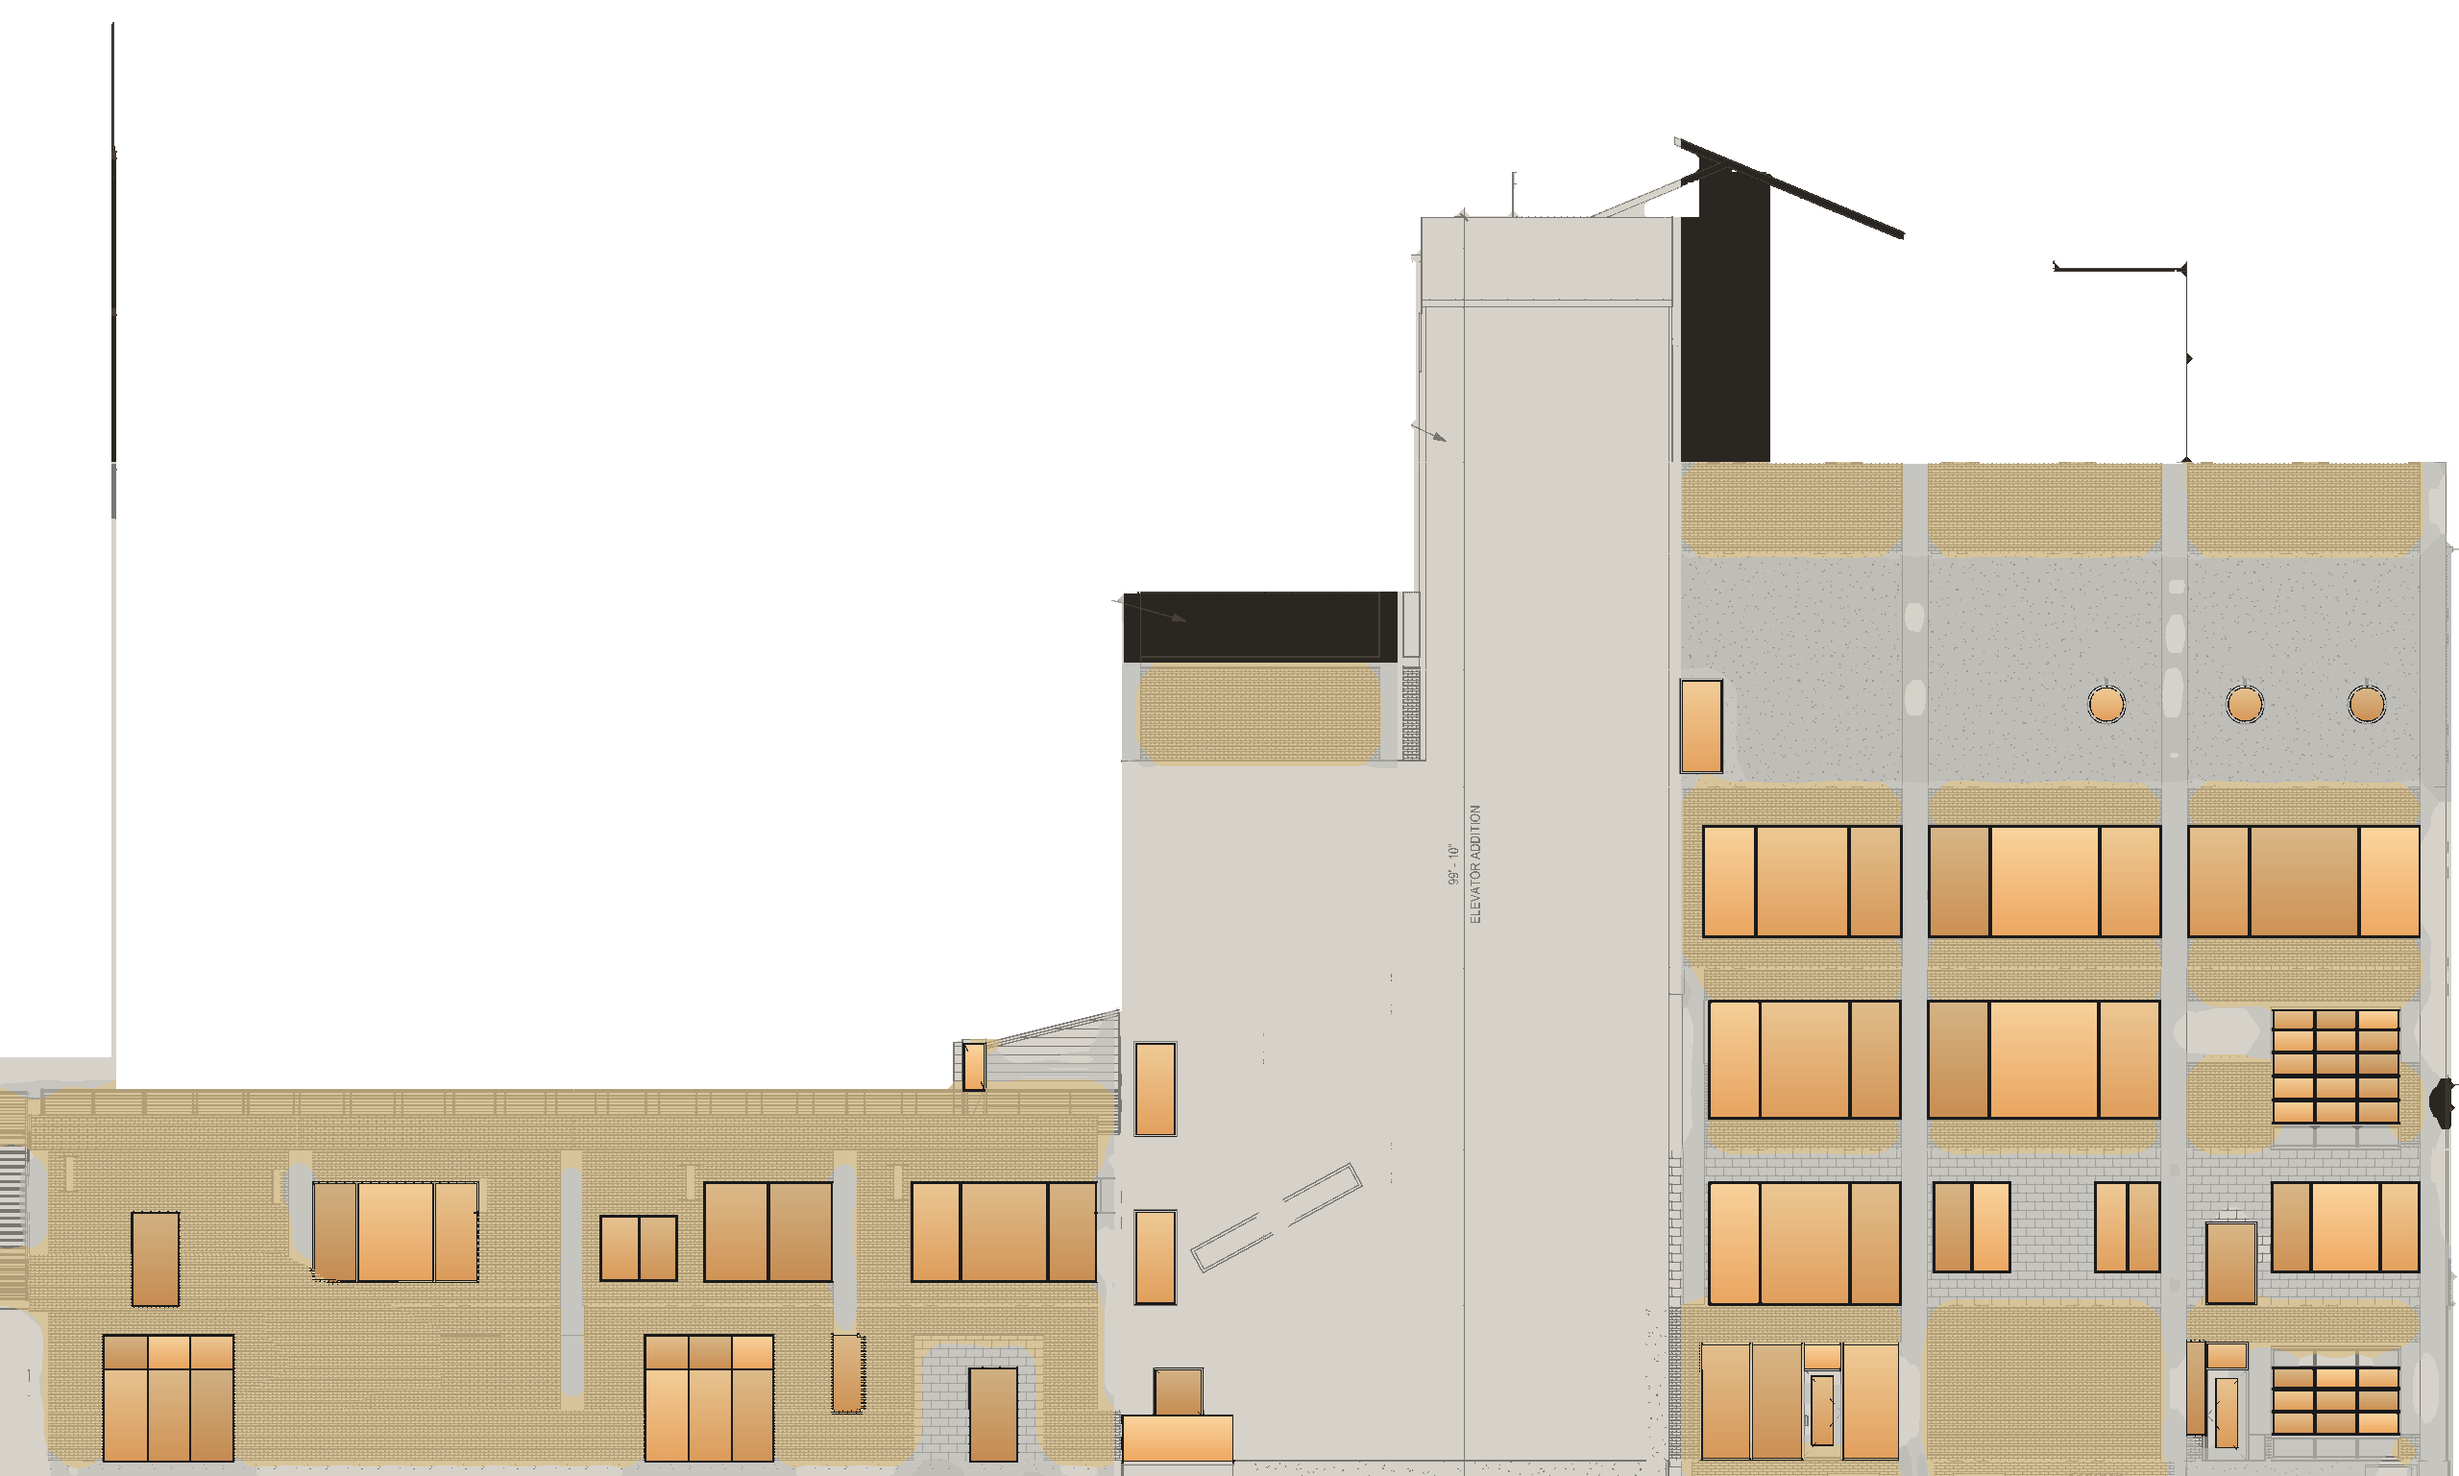
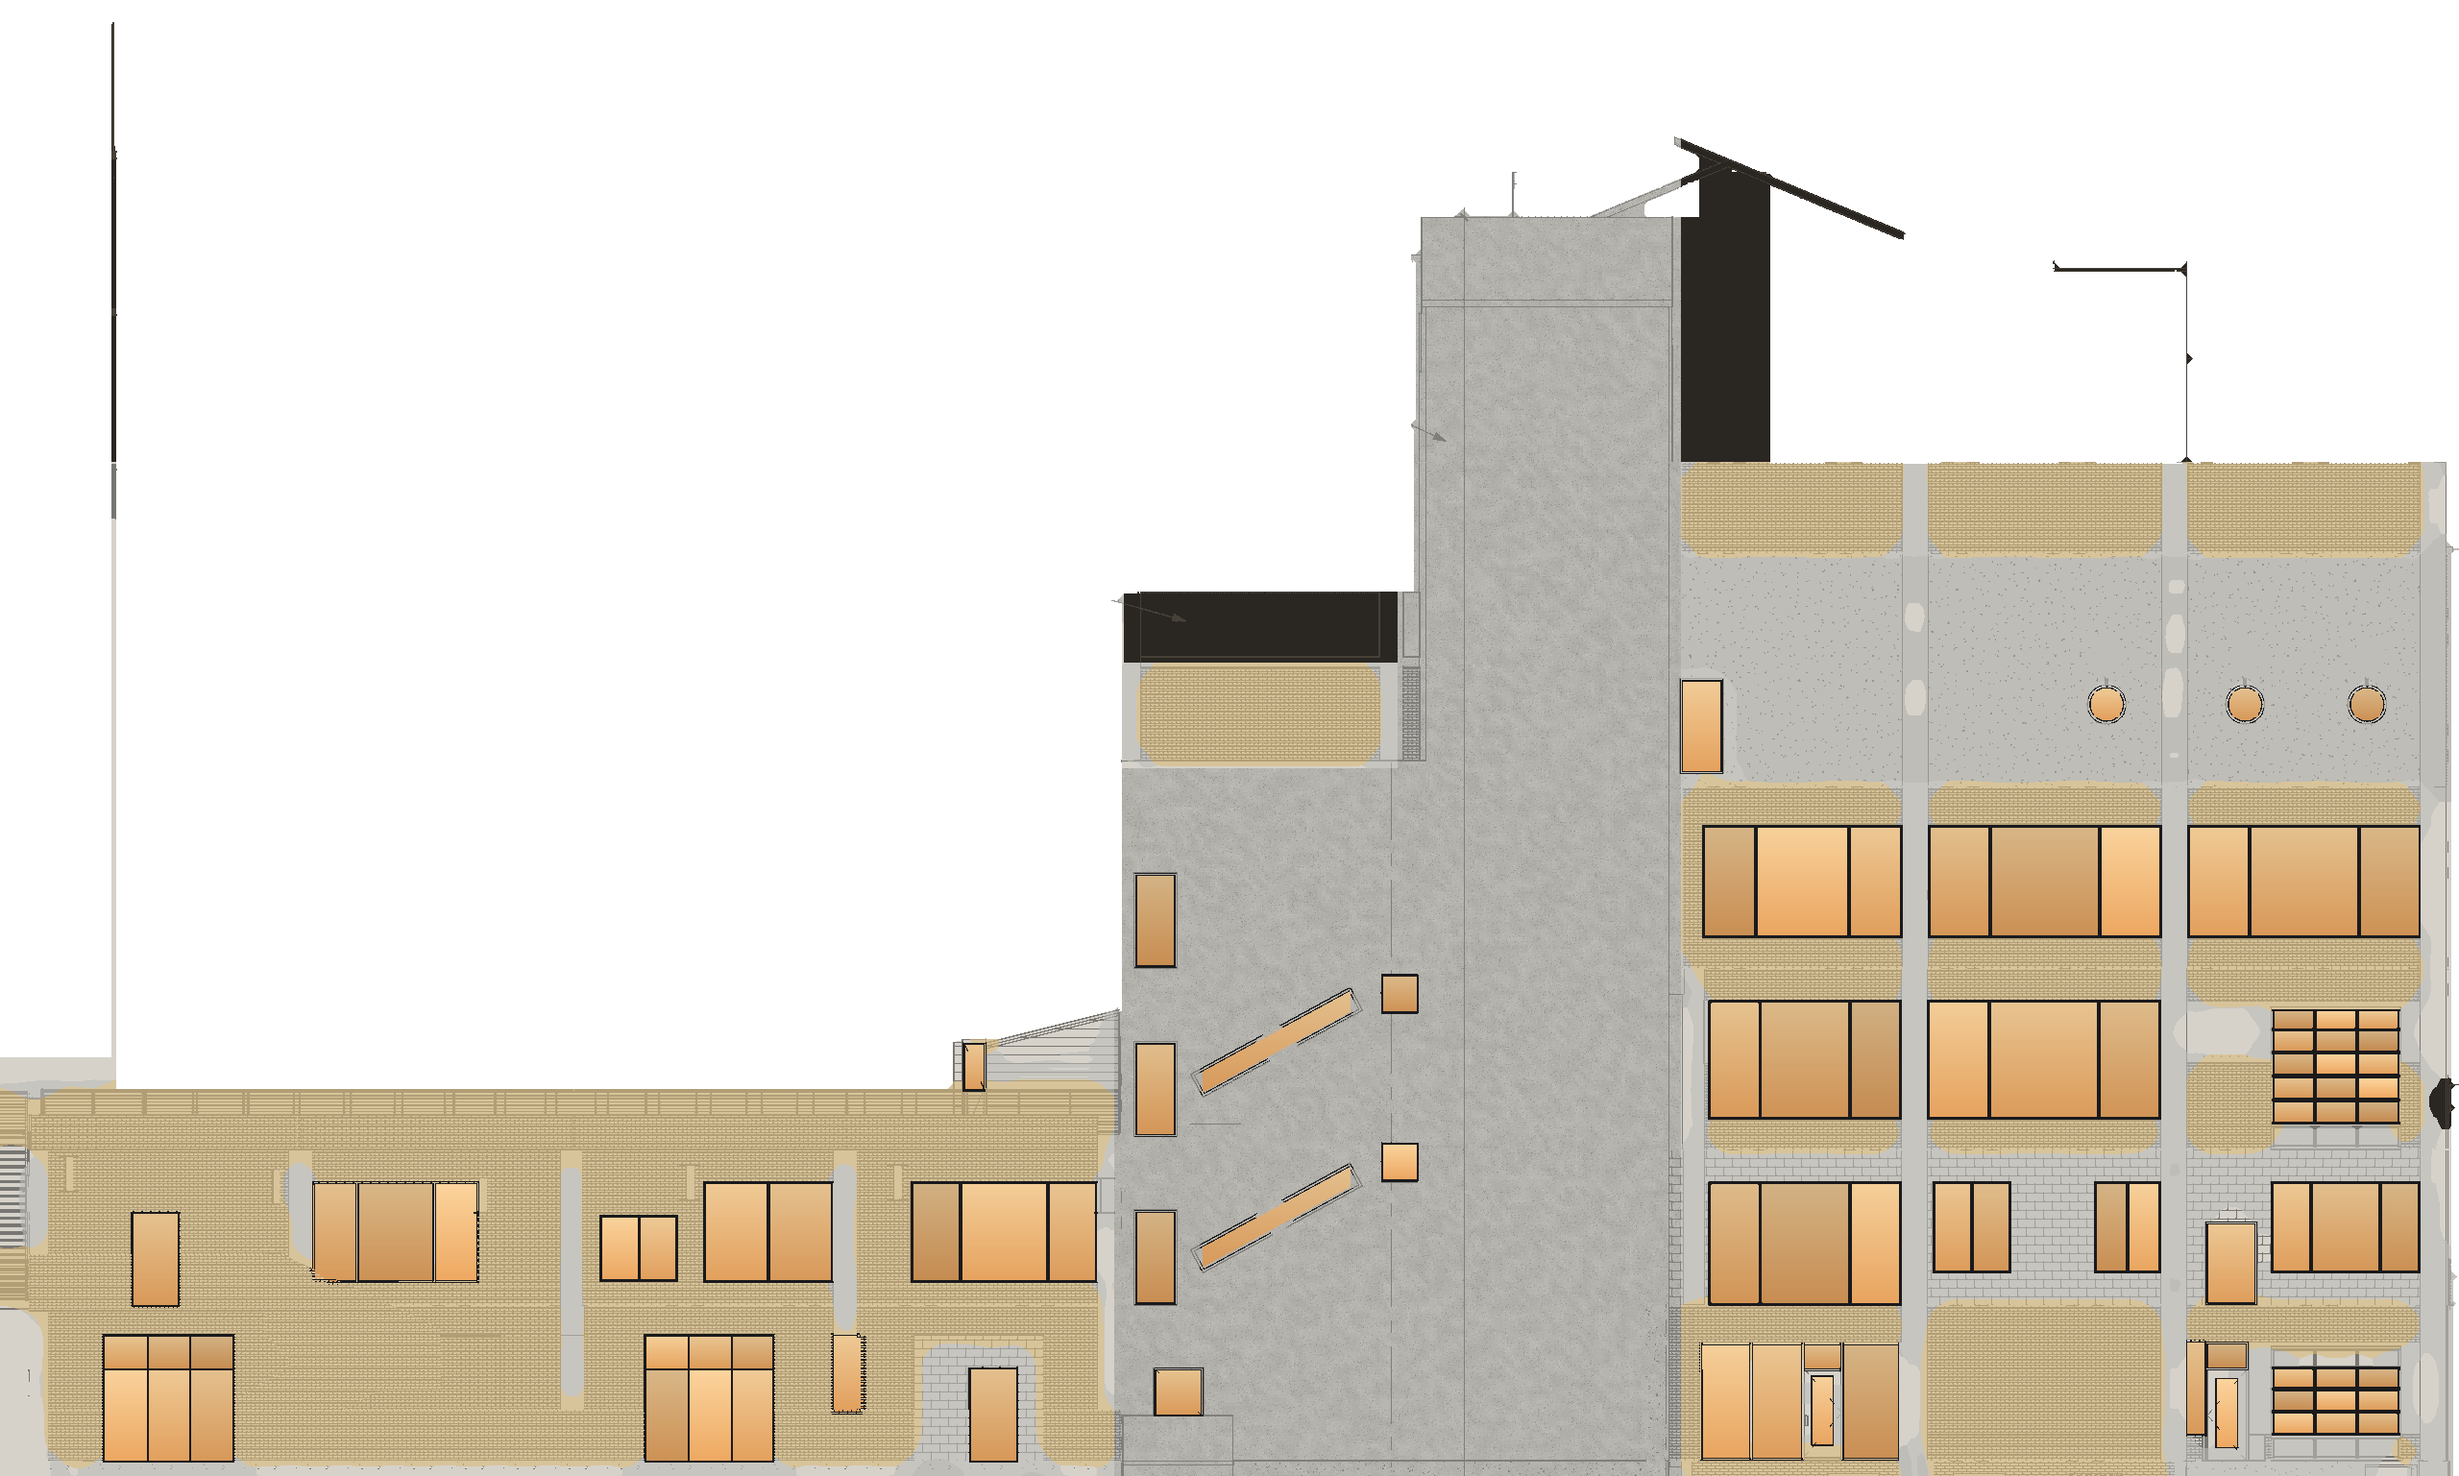
Facade review vs 040: west precast block windows, precast elevator enclosure
- West face of the precast elevator block re-pasted from 040 A401: the
  cut-out step had dropped the isolated W11, W15 and W2 windows. New
  tools/paste-sheet.mjs copies a sheet rect into a raw facade.
- colorize: glassPolys override for rotated lites (diagonal W15 slots);
  W2 window patches; ramp landing marked not-glass; drawing labels erased.
- West precast zones use the grey precast texture.
- Elevator enclosure above 177' is grey precast per A401 ("NEW ELEVATOR
  ENCLOSURE, PRE-CAST CONCRETE"); gable on top stays corrugated metal.

diff --git a/src/flyover/plan.ts b/src/flyover/plan.ts
@@ -279,7 +279,7 @@ export const HEAD_HOUSE: Volume[] = [
     eave: 96,
     ridge: 96,
     axis: "x",
-    mat: "metal", // Collin confirmed 2026-11-23: corrugated metal (Window Order 402 wins over A401 precast)
+    mat: "precast", // 040 A401: "NEW ELEVATOR ENCLOSURE, PRE-CAST CONCRETE" (Collin 2026-11-25; replaces the 11-23 metal call)
   },
   {
     name: "HE2 gable on elevator",

diff --git a/src/flyover/Massing.tsx b/src/flyover/Massing.tsx
@@ -34,7 +34,7 @@ import {
 export const C = {
   brick: "#d8c49a",
   metal: "#2a2622",
-  precast: "#d6d2ca",
+  precast: "#b2b1ac", // grey precast, matches the facade precast texture
   concrete: "#bebdb8",
   roof: "#a9a7a1",
   deck: "#c9c4b8",
